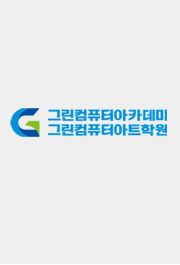
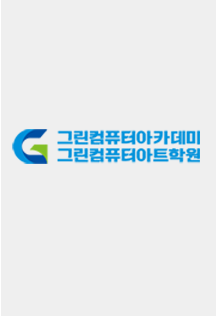
1107 16:42

diff --git a/css/index.css b/css/index.css
@@ -97,7 +97,6 @@ a{text-decoration: none; color: #000;}
     height: auto;
     display: flex;
     justify-content: center;
-    gap: 80px;
     
     /* width: 300px; height: 400px; */
 }
@@ -113,6 +112,7 @@ a{text-decoration: none; color: #000;}
     transition: .5s;
     transform: rotate(10deg);
     align-items: center;
+    margin-right: 30px;
 }
 .about .about-wrap .about-content img:nth-last-child(1){
     align-items: center;
